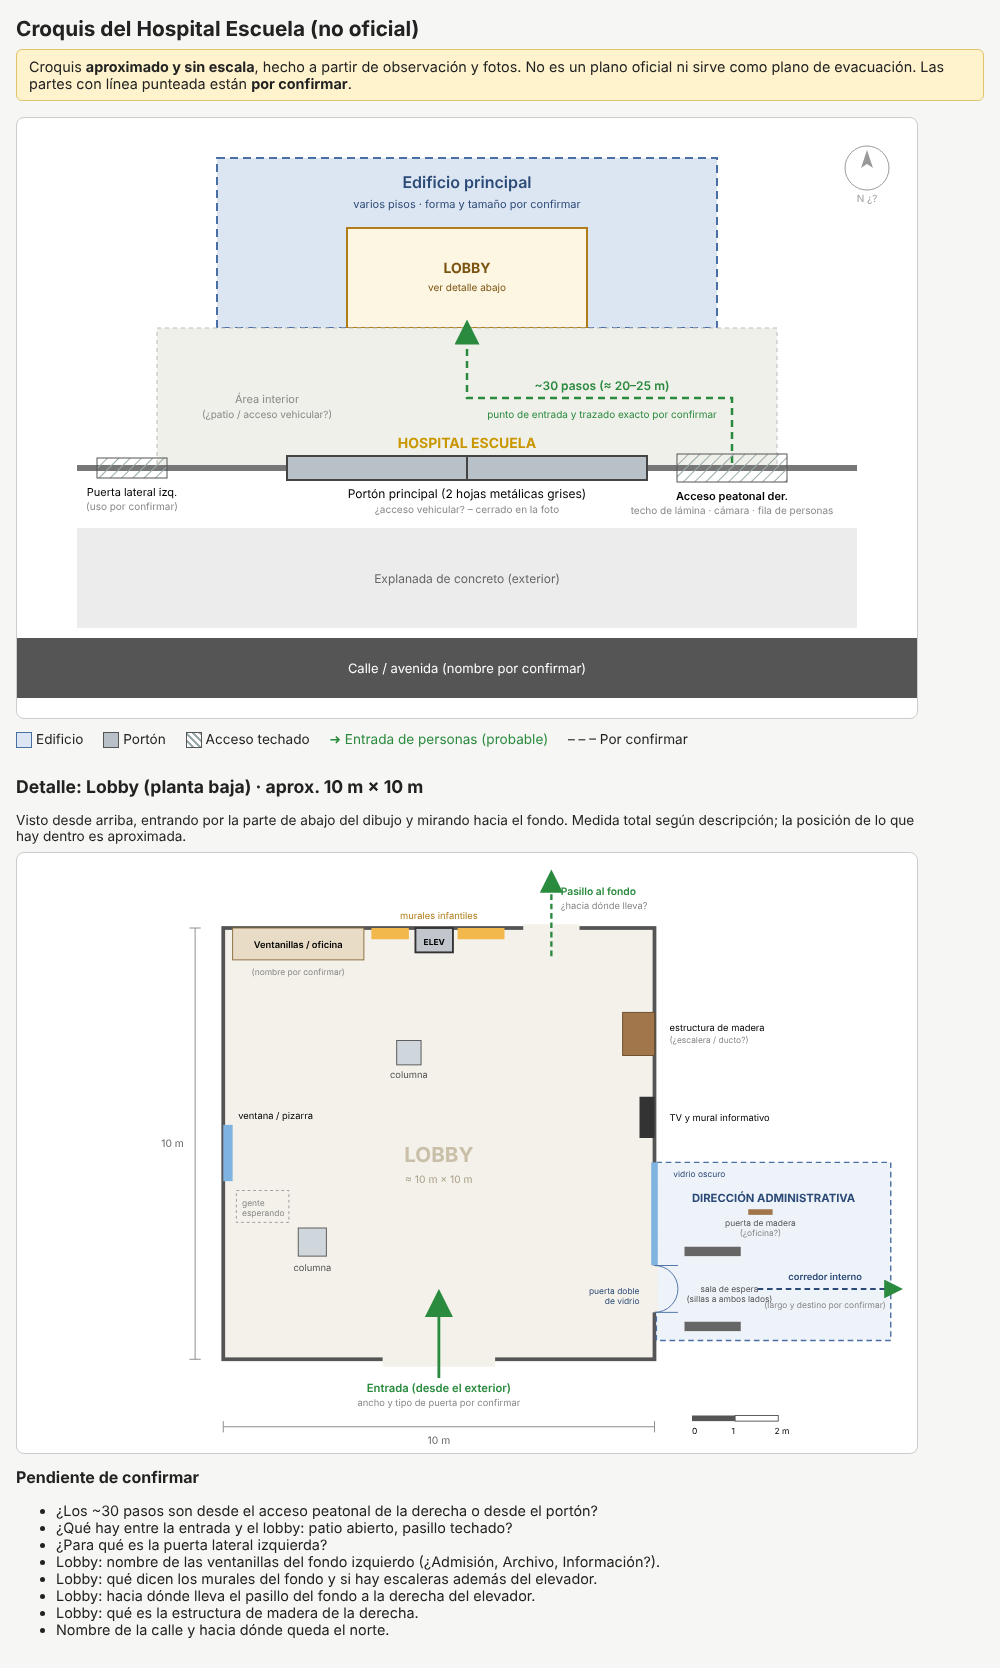
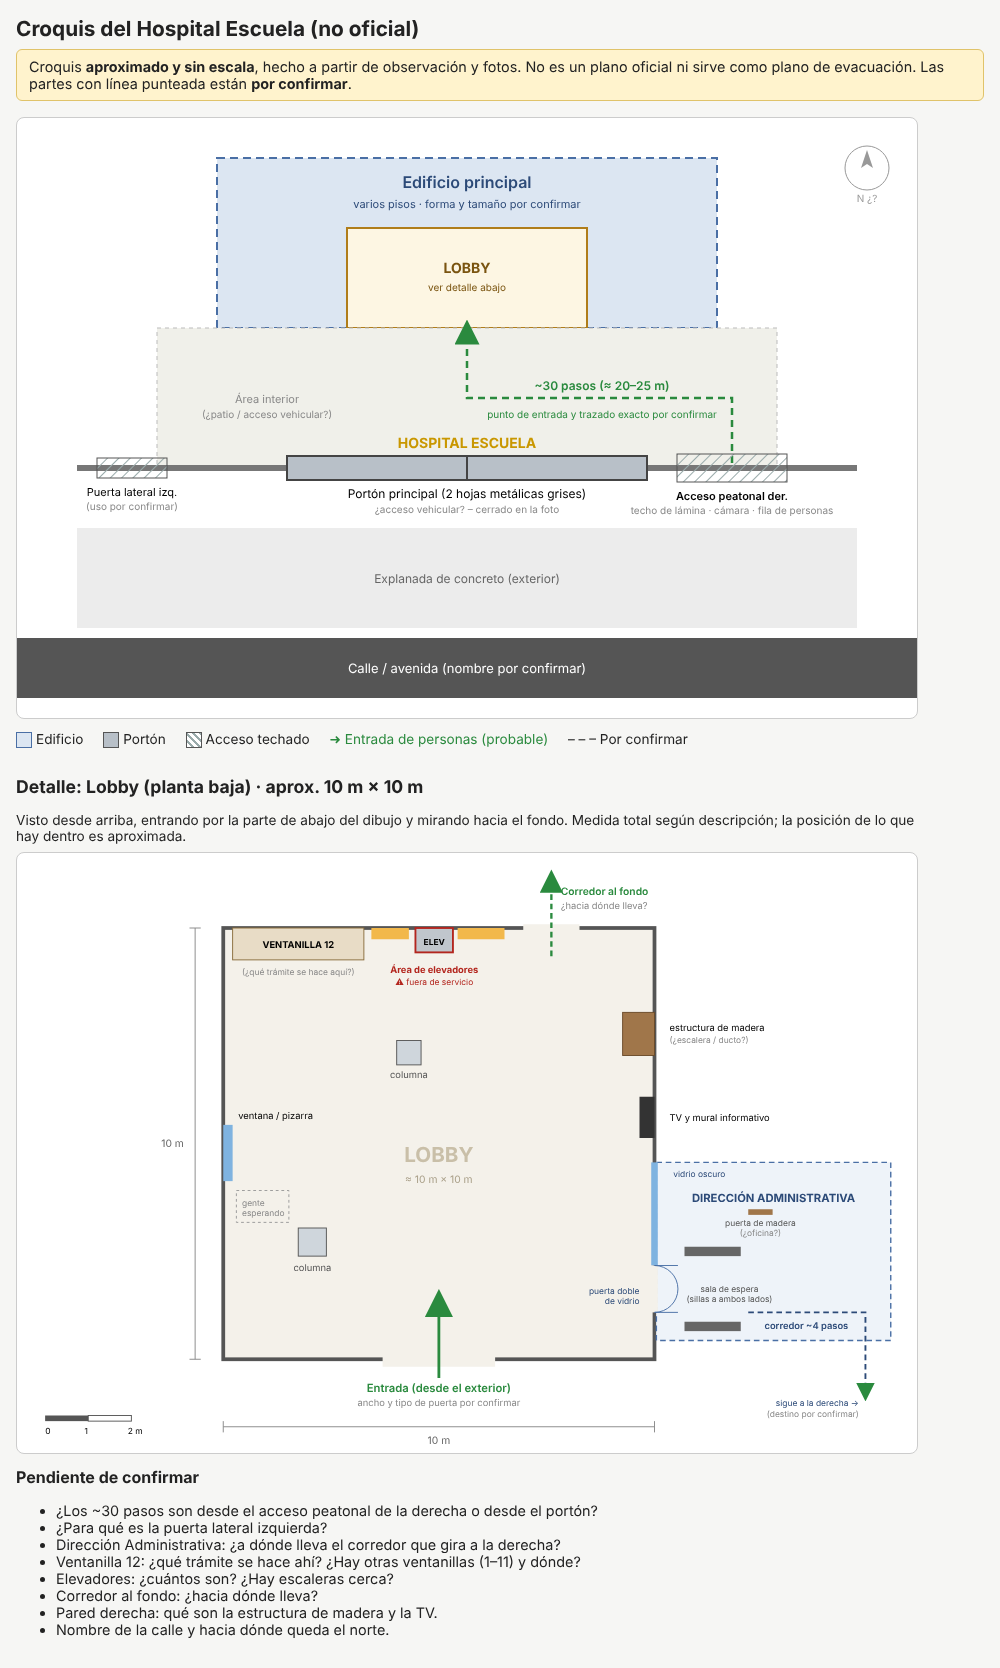
Croquis: ventanilla 12, elevadores fuera de servicio y giro del corredor
Claude-Session: https://claude.ai/code/session_015W3oK3Lfhysnu56NGNY6hD

diff --git a/croquis/index.html b/croquis/index.html
@@ -124,7 +124,7 @@
   <line x1="184" y1="80" x2="196" y2="80" stroke="#888"/><line x1="184" y1="540" x2="196" y2="540" stroke="#888"/>
   <text x="178" y="314" text-anchor="end" font-size="11" fill="#666">10 m</text>
   <!-- Escala gráfica -->
-  <g transform="translate(720,600)">
+  <g transform="translate(30,600)">
     <rect x="0" y="0" width="46" height="6" fill="#555"/><rect x="46" y="0" width="46" height="6" fill="#fff" stroke="#555"/>
     <text x="0" y="20" font-size="9">0</text><text x="42" y="20" font-size="9">1</text><text x="88" y="20" font-size="9">2 m</text>
   </g>
@@ -163,9 +163,10 @@
   <rect x="780" y="380" width="26" height="6" fill="#a0764a"/>
   <text x="793" y="398" text-anchor="middle" font-size="9" fill="#555">puerta de madera</text>
   <text x="793" y="408" text-anchor="middle" font-size="9" fill="#888">(¿oficina?)</text>
-  <path d="M790,465 L935,465" stroke="#2c4a78" stroke-width="2" stroke-dasharray="6 4" marker-end="url(#fl2)"/>
-  <text x="862" y="455" text-anchor="middle" font-size="10" font-weight="600" fill="#2c4a78">corredor interno</text>
-  <text x="862" y="485" text-anchor="middle" font-size="9" fill="#888">(largo y destino por confirmar)</text>
+  <path d="M780,490 L905,490 L905,575" fill="none" stroke="#2c4a78" stroke-width="2" stroke-dasharray="6 4" marker-end="url(#fl2)"/>
+  <text x="842" y="508" text-anchor="middle" font-size="10" font-weight="600" fill="#2c4a78">corredor ~4 pasos</text>
+  <text x="898" y="590" text-anchor="end" font-size="9" fill="#2c4a78">sigue a la derecha →</text>
+  <text x="898" y="602" text-anchor="end" font-size="9" fill="#888">(destino por confirmar)</text>
   <rect x="664" y="260" width="16" height="44" fill="#333"/>
   <text x="696" y="286" font-size="10">TV y mural informativo</text>
   <rect x="646" y="170" width="34" height="46" fill="#a0764a" stroke="#6b4b2a"/>
@@ -181,16 +182,17 @@
 
   <!-- Fondo -->
   <rect x="230" y="80" width="140" height="34" fill="#e8dcc6" stroke="#8a6d3b"/>
-  <text x="300" y="101" text-anchor="middle" font-size="10" font-weight="600">Ventanillas / oficina</text>
-  <text x="300" y="130" text-anchor="middle" font-size="9" fill="#888">(nombre por confirmar)</text>
+  <text x="300" y="101" text-anchor="middle" font-size="10" font-weight="700">VENTANILLA 12</text>
+  <text x="300" y="130" text-anchor="middle" font-size="9" fill="#888">(¿qué trámite se hace aquí?)</text>
   <rect x="378" y="80" width="40" height="12" fill="#f2b84b"/>
   <rect x="470" y="80" width="50" height="12" fill="#f2b84b"/>
-  <text x="450" y="70" text-anchor="middle" font-size="10" fill="#b07d1a">murales infantiles</text>
-  <rect x="425" y="80" width="40" height="26" fill="#c0c6cc" stroke="#333" stroke-width="2"/>
+  <text x="445" y="128" text-anchor="middle" font-size="10" font-weight="700" fill="#b3261e">Área de elevadores</text>
+  <text x="445" y="141" text-anchor="middle" font-size="9" fill="#b3261e">⚠ fuera de servicio</text>
+  <rect x="425" y="80" width="40" height="26" fill="#c0c6cc" stroke="#b3261e" stroke-width="2"/>
   <text x="445" y="98" text-anchor="middle" font-size="9" font-weight="700">ELEV</text>
   <rect x="540" y="76" width="60" height="10" fill="#f4f1ea"/>
   <path d="M570,110 L570,30" stroke="#2a8a3e" stroke-width="2.5" stroke-dasharray="6 4" marker-end="url(#fl2)"/>
-  <text x="580" y="45" font-size="11" font-weight="600" fill="#2a8a3e">Pasillo al fondo</text>
+  <text x="580" y="45" font-size="11" font-weight="600" fill="#2a8a3e">Corredor al fondo</text>
   <text x="580" y="60" font-size="10" fill="#888">¿hacia dónde lleva?</text>
 </svg>
 </div>
@@ -199,12 +201,12 @@
   <h2 style="font-size:1rem">Pendiente de confirmar</h2>
   <ul>
     <li>¿Los ~30 pasos son desde el acceso peatonal de la derecha o desde el portón?</li>
-    <li>¿Qué hay entre la entrada y el lobby: patio abierto, pasillo techado?</li>
     <li>¿Para qué es la puerta lateral izquierda?</li>
-    <li>Lobby: nombre de las ventanillas del fondo izquierdo (¿Admisión, Archivo, Información?).</li>
-    <li>Lobby: qué dicen los murales del fondo y si hay escaleras además del elevador.</li>
-    <li>Lobby: hacia dónde lleva el pasillo del fondo a la derecha del elevador.</li>
-    <li>Lobby: qué es la estructura de madera de la derecha.</li>
+    <li>Dirección Administrativa: ¿a dónde lleva el corredor que gira a la derecha?</li>
+    <li>Ventanilla 12: ¿qué trámite se hace ahí? ¿Hay otras ventanillas (1–11) y dónde?</li>
+    <li>Elevadores: ¿cuántos son? ¿Hay escaleras cerca?</li>
+    <li>Corredor al fondo: ¿hacia dónde lleva?</li>
+    <li>Pared derecha: qué son la estructura de madera y la TV.</li>
     <li>Nombre de la calle y hacia dónde queda el norte.</li>
   </ul>
 </div>
